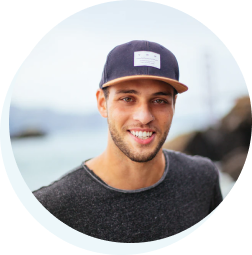
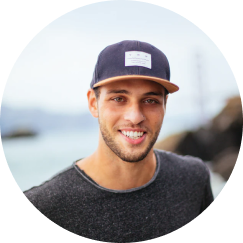
addet animation

diff --git a/assets/css/styles.css b/assets/css/styles.css
@@ -124,6 +124,10 @@ img {
 }
 
 /* hero styles */
+.hero-container {
+  display: flex;
+  align-items: center;
+}
 .hero-wrapper {
   max-width: 548px;
   padding: 62px 0;
@@ -135,7 +139,26 @@ img {
   font-weight: 700;
   font-size: 44px;
   line-height: 1.2;
+  animation: slide-right 1000ms ease-out 100ms backwards;
 }
+
+/* text animation*/
+@keyframes slide-right {
+  0% {
+    opacity: 0;
+    transform: translateX(-200px);
+  }
+
+  50% {
+    opacity: 0.6;
+  }
+
+  100% {
+    transform: translateX(0);
+    opacity: 1;
+  }
+}
+
 .title-top {
   display: block;
   width: 100%;
@@ -148,6 +171,21 @@ img {
 
 .hero-text {
   margin: 24px 0;
+  animation: slide-to-top 1000ms ease-out 1100ms backwards;
+}
+
+@keyframes slide-to-top {
+  0% {
+    transform: translateY(100px);
+    opacity: 0;
+  }
+  60% {
+    opacity: 0.4;
+  }
+  100% {
+    transform: translateY(0);
+    opacity: 1;
+  }
 }
 
 .hero-button {
@@ -158,9 +196,112 @@ img {
   text-align: center;
   color: #ffffff;
   background-color: #ff6464;
-  border: none;
+  border: 1px solid transparent;
   border-radius: 4px;
   cursor: pointer;
+  animation: bounce-in-fwd 1100ms 2100ms both;
+  transition: color 300ms ease-in-out, background-color 300ms ease-in-out,
+    border-color 300ms ease-in-out;
+}
+
+.hero-button:hover,
+.hero-button:focus {
+  color: #ff6464;
+  background-color: #ffffff;
+  border-color: #ff6464;
+}
+
+@keyframes bounce-in-fwd {
+  0% {
+    transform: scale(0);
+    animation-timing-function: ease-in;
+    opacity: 0;
+  }
+  38% {
+    transform: scale(1);
+    animation-timing-function: ease-out;
+    opacity: 1;
+  }
+  55% {
+    transform: scale(0.7);
+    animation-timing-function: ease-in;
+  }
+  72% {
+    transform: scale(1);
+    animation-timing-function: ease-out;
+  }
+  81% {
+    transform: scale(0.84);
+    animation-timing-function: ease-in;
+  }
+  89% {
+    transform: scale(1);
+    animation-timing-function: ease-out;
+  }
+  95% {
+    transform: scale(0.95);
+    animation-timing-function: ease-in;
+  }
+  100% {
+    transform: scale(1);
+    animation-timing-function: ease-out;
+  }
+}
+
+.hero-thumb {
+  position: relative;
+  width: 243px;
+  height: 243px;
+  animation: slide-left 1000ms ease-out 100ms backwards;
+}
+
+@keyframes slide-left {
+  0% {
+    opacity: 0;
+    transform: translateX(200px);
+  }
+
+  50% {
+    opacity: 0.6;
+  }
+
+  100% {
+    transform: translateX(0);
+    opacity: 1;
+  }
+}
+
+.hero-thumb::before {
+  position: absolute;
+  top: 0;
+  left: 0;
+  z-index: -1;
+
+  content: '';
+  display: block;
+  width: 100%;
+  height: 100%;
+  border-radius: 50%;
+  background-color: rgba(33, 36, 61, 0.7);
+  animation: bg-slide 1800ms ease-out 1100ms both;
+}
+
+@keyframes bg-slide {
+  from {
+    transform: translate(0);
+    opacity: 0;
+  }
+  to {
+    transform: translate(-9px, 12px);
+    opacity: 1;
+  }
+}
+
+.hero-picture {
+  object-fit: cover;
+  object-position: center;
+  width: 100%;
+  height: 100%;
 }
 
 /* posts styles */

diff --git a/index.html b/index.html
@@ -30,36 +30,41 @@
         </a>
         <ul class="header-nav">
           <li class="header-item">
-            <a href="./blog.html" class="header-link">Blog</a>
+            <a class="header-link" href="./blog.html">Blog</a>
           </li>
           <li class="header-item">
-            <a href="./work.html" class="header-link">Work</a>
+            <a class="header-link" href="./work.html">Work</a>
           </li>
           <li class="header-item">
-            <a href="" class="header-link">Contact</a>
+            <a class="header-link" href="">Contact</a>
           </li>
         </ul>
       </div>
     </header>
     <!-- main content -->
     <main class="main">
-      <section class="hero container section">
-        <div class="hero-wrapper">
-          <h1 class="hero-title">
-            <span class="title-top">Hi, I’m John!</span>
-            <span class="title-bottom">Creative Technologist</span>
-          </h1>
-          <p class="hero-text">
-            Amet minim mollit non deserunt ullamco est sit aliqua dolor do amet sint. Velit officia
-            consequat duis enim velit mollit. Exercitation veniam consequat sunt nostrud amet.
-          </p>
-          <button class="hero-button" type="button">Check my Work</button>
+      <section class="hero">
+        <div class="hero-container container">
+          <div class="hero-wrapper">
+            <h1 class="hero-title">
+              <span class="title-top">Hi, I’m John!</span>
+              <span class="title-bottom">Creative Technologist</span>
+            </h1>
+            <p class="hero-text">
+              Amet minim mollit non deserunt ullamco est sit aliqua dolor do amet sint. Velit
+              officia consequat duis enim velit mollit. Exercitation veniam consequat sunt nostrud
+              amet.
+            </p>
+            <button class="hero-button" type="button">Check my Work</button>
+          </div>
+          <div class="hero-thumb">
+            <img
+              class="hero-picture"
+              src="./assets/images/png/hero-image.png"
+              alt="Site owner photo"
+            />
+          </div>
         </div>
-        <img
-          class="hero-picture"
-          src="./assets/images/png/hero-image-big.png"
-          alt="Site owner photo"
-        />
       </section>
       <!-- Recent Posts -->
       <section class="posts">
